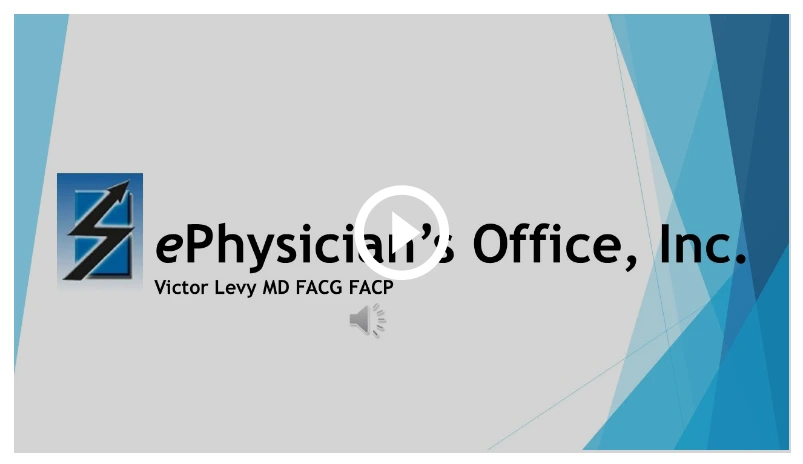
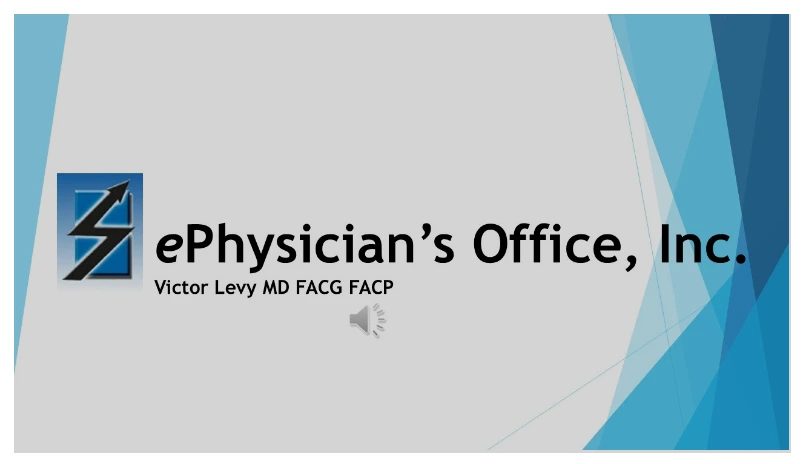
video add on home page

Changed region(s): [[0.4359, 0.3922, 0.5604, 0.6034]]

diff --git a/index.html b/index.html
@@ -192,11 +192,24 @@
               class="whatInnerSec d-flex flex-column col-lg-12 justify-content-center align-items-center text-center setMainCol"
             >
               <h2 class="headingBlock">What we do</h2>
-              <img
-                src="./assets/images/video-mockup-home-01.webp"
-                alt="Traditional Approach Image"
-                class="img-fluid"
-              />
+
+              <div class="videoWrapper">
+                <div
+                  class="video-preview-image"
+                  style="
+                    background-image: url(./assets/images/video-mockup-home-01.webp);
+                  "
+                ></div>
+                <video
+                  autoplay="autoplay"
+                  loop=""
+                  controls=""
+                  width="100%"
+                  height="430"
+                >
+                  <source type="video/mp4" src="./assets/images/04.mp4" />
+                </video>
+              </div>
             </div>
           </div>
         </div>
